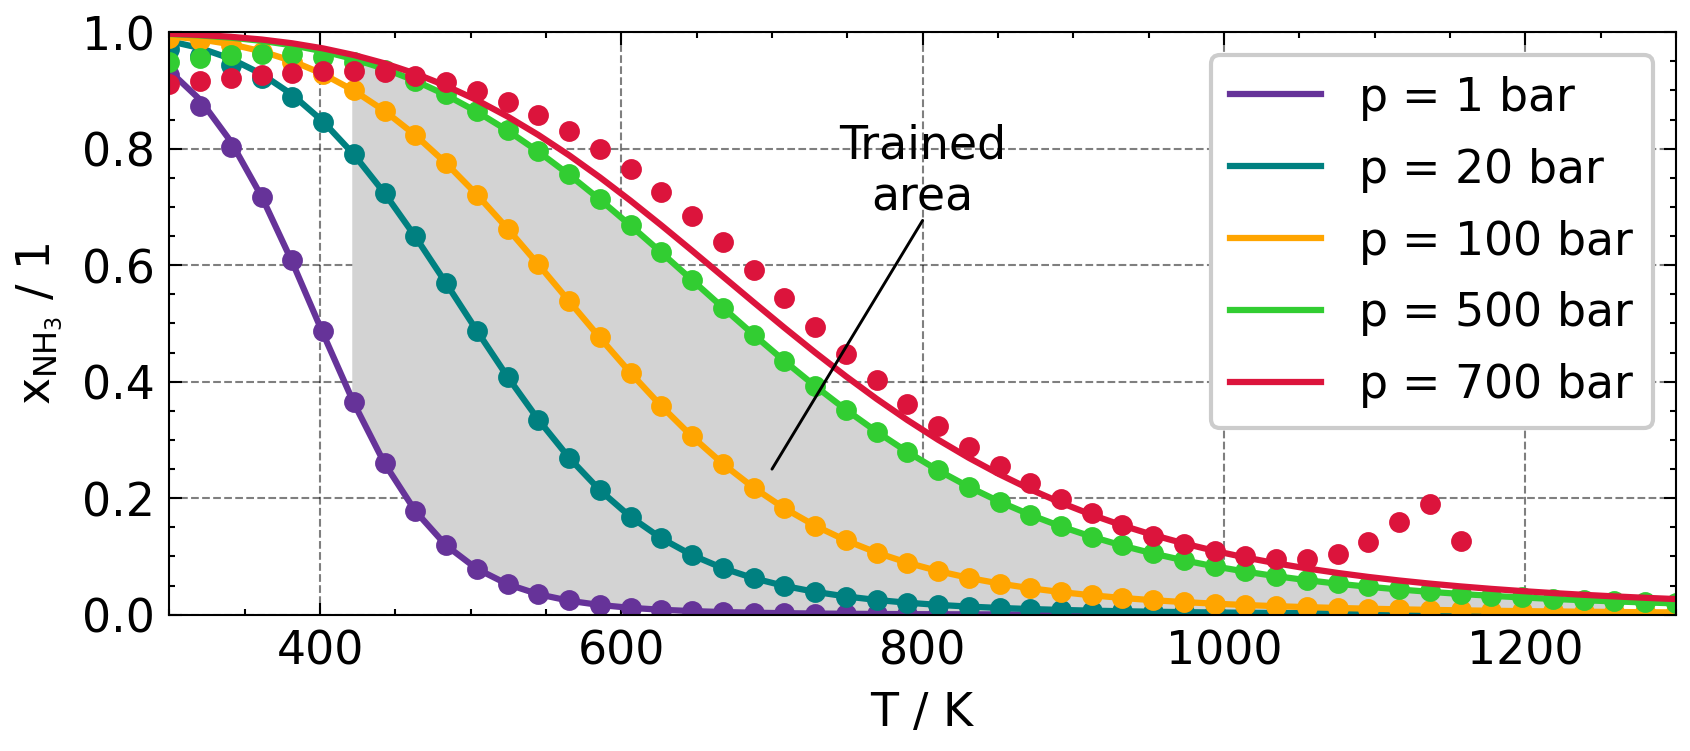
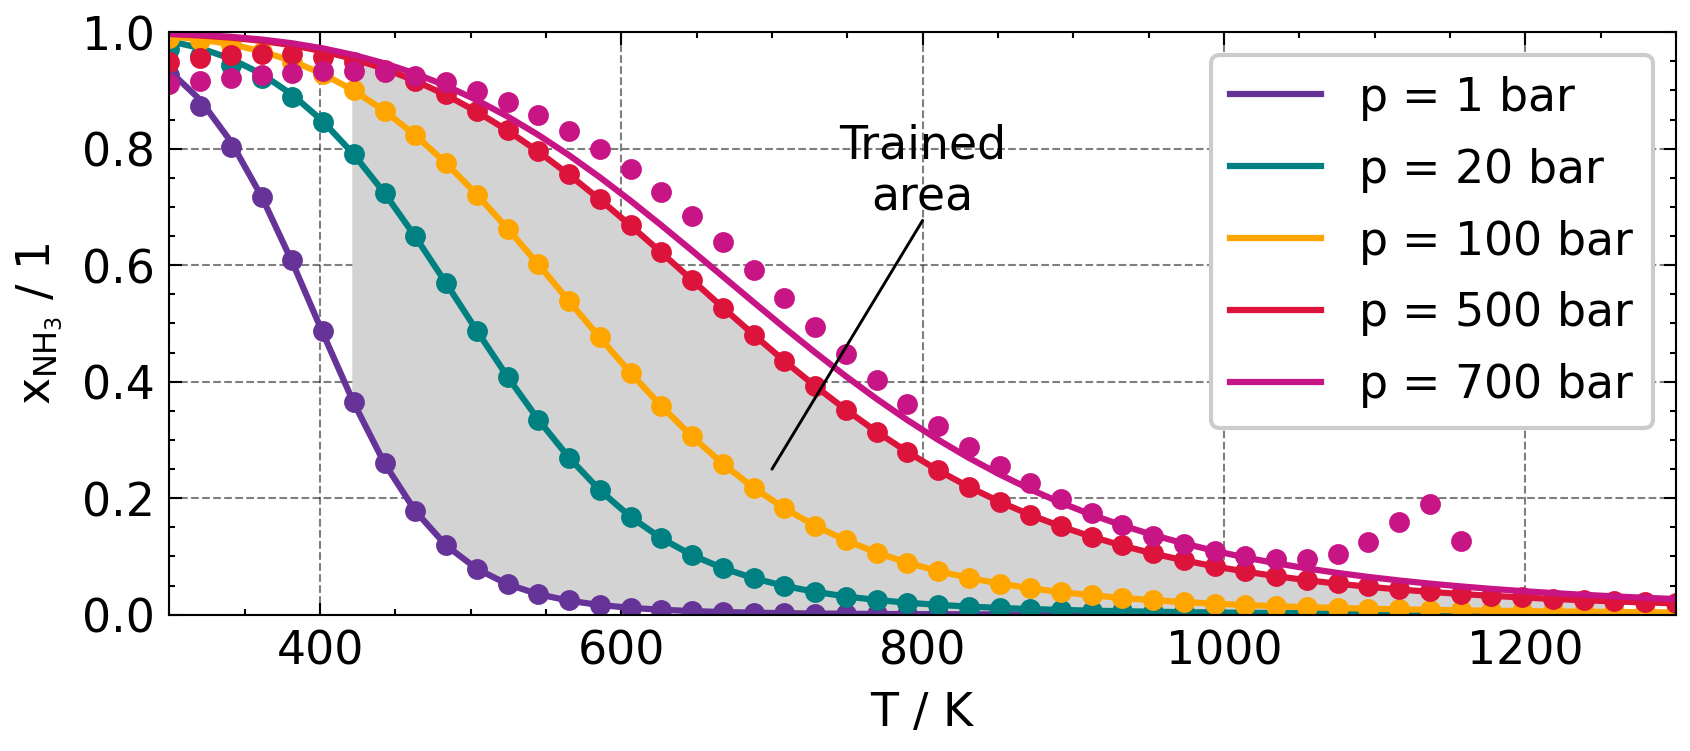
update EQLines

diff --git a/HSA_001_XXX/evaluation/HSA_001_003_EQlines_uniform.py b/HSA_001_XXX/evaluation/HSA_001_003_EQlines_uniform.py
@@ -58,7 +58,8 @@ n = n_ges_0_plot * x_0_plot
 
 # Diagramm1: Parameter zur Berechnung von xi über T bei versch. Druecken
 T_plot1 = np.linspace(300, 1300, num=num_plot)  # K Temperatur
-p_plot1 = np.array([1, 10, 20, 100, 200])  # bar Druck;
+p_plot1 = np.array([1, 20, 100, 200])  # bar Druck;
+# p_plot1 = np.array([1, 20, 50, 100, 500])  # bar Druck;
 
 # Aufrufen der Funktion zur Berechnung von xi mit Shomate
 K_x_plot1 = np.zeros((num_plot, len(p_plot1)))
@@ -88,7 +89,14 @@ for i in range(0, len(p_plot1)):
 # xi über T bei unterschiedlichen p
 fig1, ax1 = plt.subplots(figsize=figsize)
 
-colors = ["rebeccapurple", "teal", "orange", "limegreen", "crimson"]
+colors = {
+    1: "rebeccapurple",
+    20: "teal",
+    100: "orange",
+    200: "limegreen",
+    500: "crimson",
+    700: "mediumvioletred",
+}
 
 for i in range(0, len(p_plot1)):
     ax1.plot(
@@ -96,13 +104,13 @@ for i in range(0, len(p_plot1)):
         x_plot1[:, i, 2],
         "-",
         label=f"$p$ = {p_plot1[i]} bar",
-        color=colors[i],
+        color=colors[p_plot1[i]],
     )
     ax1.plot(
         T_plot1,
         x_net_plot1[:, i, 1],
         "o",
-        color=colors[i],
+        color=colors[p_plot1[i]],
     )
 
 #'o': Punkte;'-': Verbindung mit Linien; '--':gestrichelte Linie...
@@ -129,7 +137,7 @@ print(T_trained)
 fill = ax1.fill_between(
     T_trained,
     x_plot1[cond_idcs, 0, 2],
-    x_plot1[cond_idcs, 3, 2],
+    x_plot1[cond_idcs, 2, 2],
     color="lightgray",
     alpha=1,
     zorder=1,

diff --git a/HSA_001_XXX/evaluation/HSA_001_003_EQlines_loguniform.py b/HSA_001_XXX/evaluation/HSA_001_003_EQlines_loguniform.py
@@ -58,7 +58,7 @@ n = n_ges_0_plot * x_0_plot
 
 # Diagramm1: Parameter zur Berechnung von xi über T bei versch. Druecken
 T_plot1 = np.linspace(300, 1300, num=num_plot)  # K Temperatur
-p_plot1 = np.array([1, 20, 50, 100, 200])  # bar Druck;
+p_plot1 = np.array([1, 20, 100, 200])  # bar Druck;
 
 # Aufrufen der Funktion zur Berechnung von xi mit Shomate
 K_x_plot1 = np.zeros((num_plot, len(p_plot1)))
@@ -88,7 +88,15 @@ for i in range(0, len(p_plot1)):
 # xi über T bei unterschiedlichen p
 fig1, ax1 = plt.subplots(figsize=figsize)
 
-colors = ["rebeccapurple", "teal", "orange", "limegreen", "crimson"]
+colors = {
+    1: "rebeccapurple",
+    20: "teal",
+    100: "orange",
+    200: "limegreen",
+    500: "crimson",
+    700: "mediumvioletred",
+}
+
 
 for i in range(0, len(p_plot1)):
     ax1.plot(
@@ -96,13 +104,13 @@ for i in range(0, len(p_plot1)):
         x_plot1[:, i, 2],
         "-",
         label=f"$p$ = {p_plot1[i]} bar",
-        color=colors[i],
+        color=colors[p_plot1[i]],
     )
     ax1.plot(
         T_plot1,
         x_net_plot1[:, i, 1],
         "o",
-        color=colors[i],
+        color=colors[p_plot1[i]],
     )
 
 #'o': Punkte;'-': Verbindung mit Linien; '--':gestrichelte Linie...
@@ -129,7 +137,7 @@ print(T_trained)
 fill = ax1.fill_between(
     T_trained,
     x_plot1[cond_idcs, 0, 2],
-    x_plot1[cond_idcs, 3, 2],
+    x_plot1[cond_idcs, 2, 2],
     color="lightgray",
     alpha=1,
     zorder=1,

diff --git a/HSA_001_XXX/evaluation/HSA_001_001_EQlines_uniform.py b/HSA_001_XXX/evaluation/HSA_001_001_EQlines_uniform.py
@@ -88,7 +88,15 @@ for i in range(0, len(p_plot1)):
 # xi über T bei unterschiedlichen p
 fig1, ax1 = plt.subplots(figsize=figsize)
 
-colors = ["rebeccapurple", "teal", "orange", "limegreen", "crimson"]
+colors = {
+    1: "rebeccapurple",
+    20: "teal",
+    100: "orange",
+    200: "limegreen",
+    500: "crimson",
+    700: "mediumvioletred",
+}
+
 
 for i in range(0, len(p_plot1)):
     ax1.plot(
@@ -96,13 +104,13 @@ for i in range(0, len(p_plot1)):
         x_plot1[:, i, 2],
         "-",
         label=f"$p$ = {p_plot1[i]} bar",
-        color=colors[i],
+        color=colors[p_plot1[i]],
     )
     ax1.plot(
         T_plot1,
         x_net_plot1[:, i, 1],
         "o",
-        color=colors[i],
+        color=colors[p_plot1[i]],
     )
 
 #'o': Punkte;'-': Verbindung mit Linien; '--':gestrichelte Linie...

diff --git a/HSA_001_XXX/evaluation/HSA_001_001_EQlines_loguniform.py b/HSA_001_XXX/evaluation/HSA_001_001_EQlines_loguniform.py
@@ -88,7 +88,14 @@ for i in range(0, len(p_plot1)):
 # xi über T bei unterschiedlichen p
 fig1, ax1 = plt.subplots(figsize=figsize)
 
-colors = ["rebeccapurple", "teal", "orange", "limegreen", "crimson"]
+colors = {
+    1: "rebeccapurple",
+    20: "teal",
+    100: "orange",
+    200: "limegreen",
+    500: "crimson",
+    700: "mediumvioletred",
+}
 
 for i in range(0, len(p_plot1)):
     ax1.plot(
@@ -96,13 +103,13 @@ for i in range(0, len(p_plot1)):
         x_plot1[:, i, 2],
         "-",
         label=f"$p$ = {p_plot1[i]} bar",
-        color=colors[i],
+        color=colors[p_plot1[i]],
     )
     ax1.plot(
         T_plot1,
         x_net_plot1[:, i, 1],
         "o",
-        color=colors[i],
+        color=colors[p_plot1[i]],
     )
 
 #'o': Punkte;'-': Verbindung mit Linien; '--':gestrichelte Linie...
